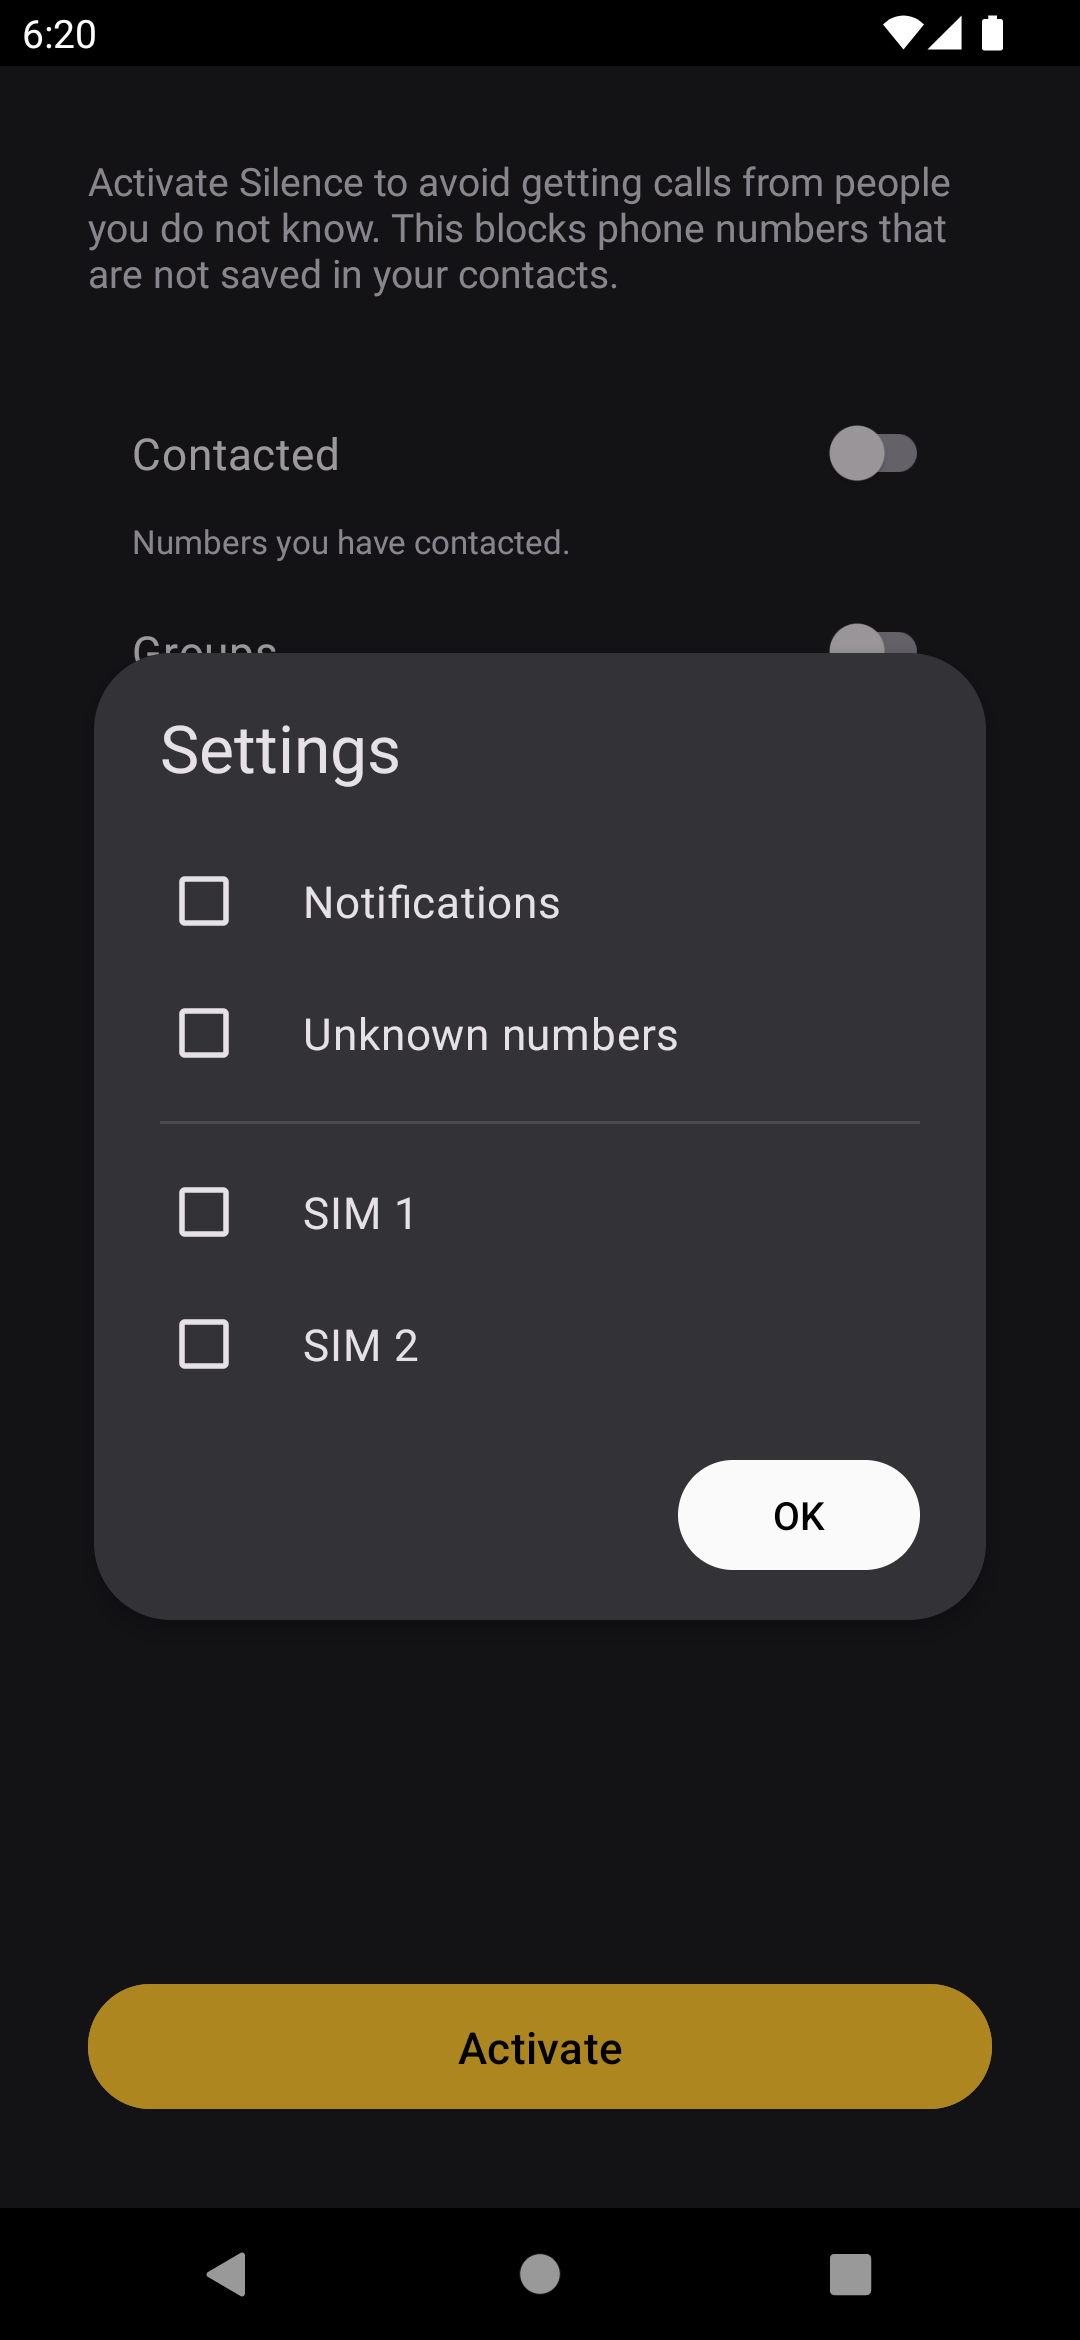
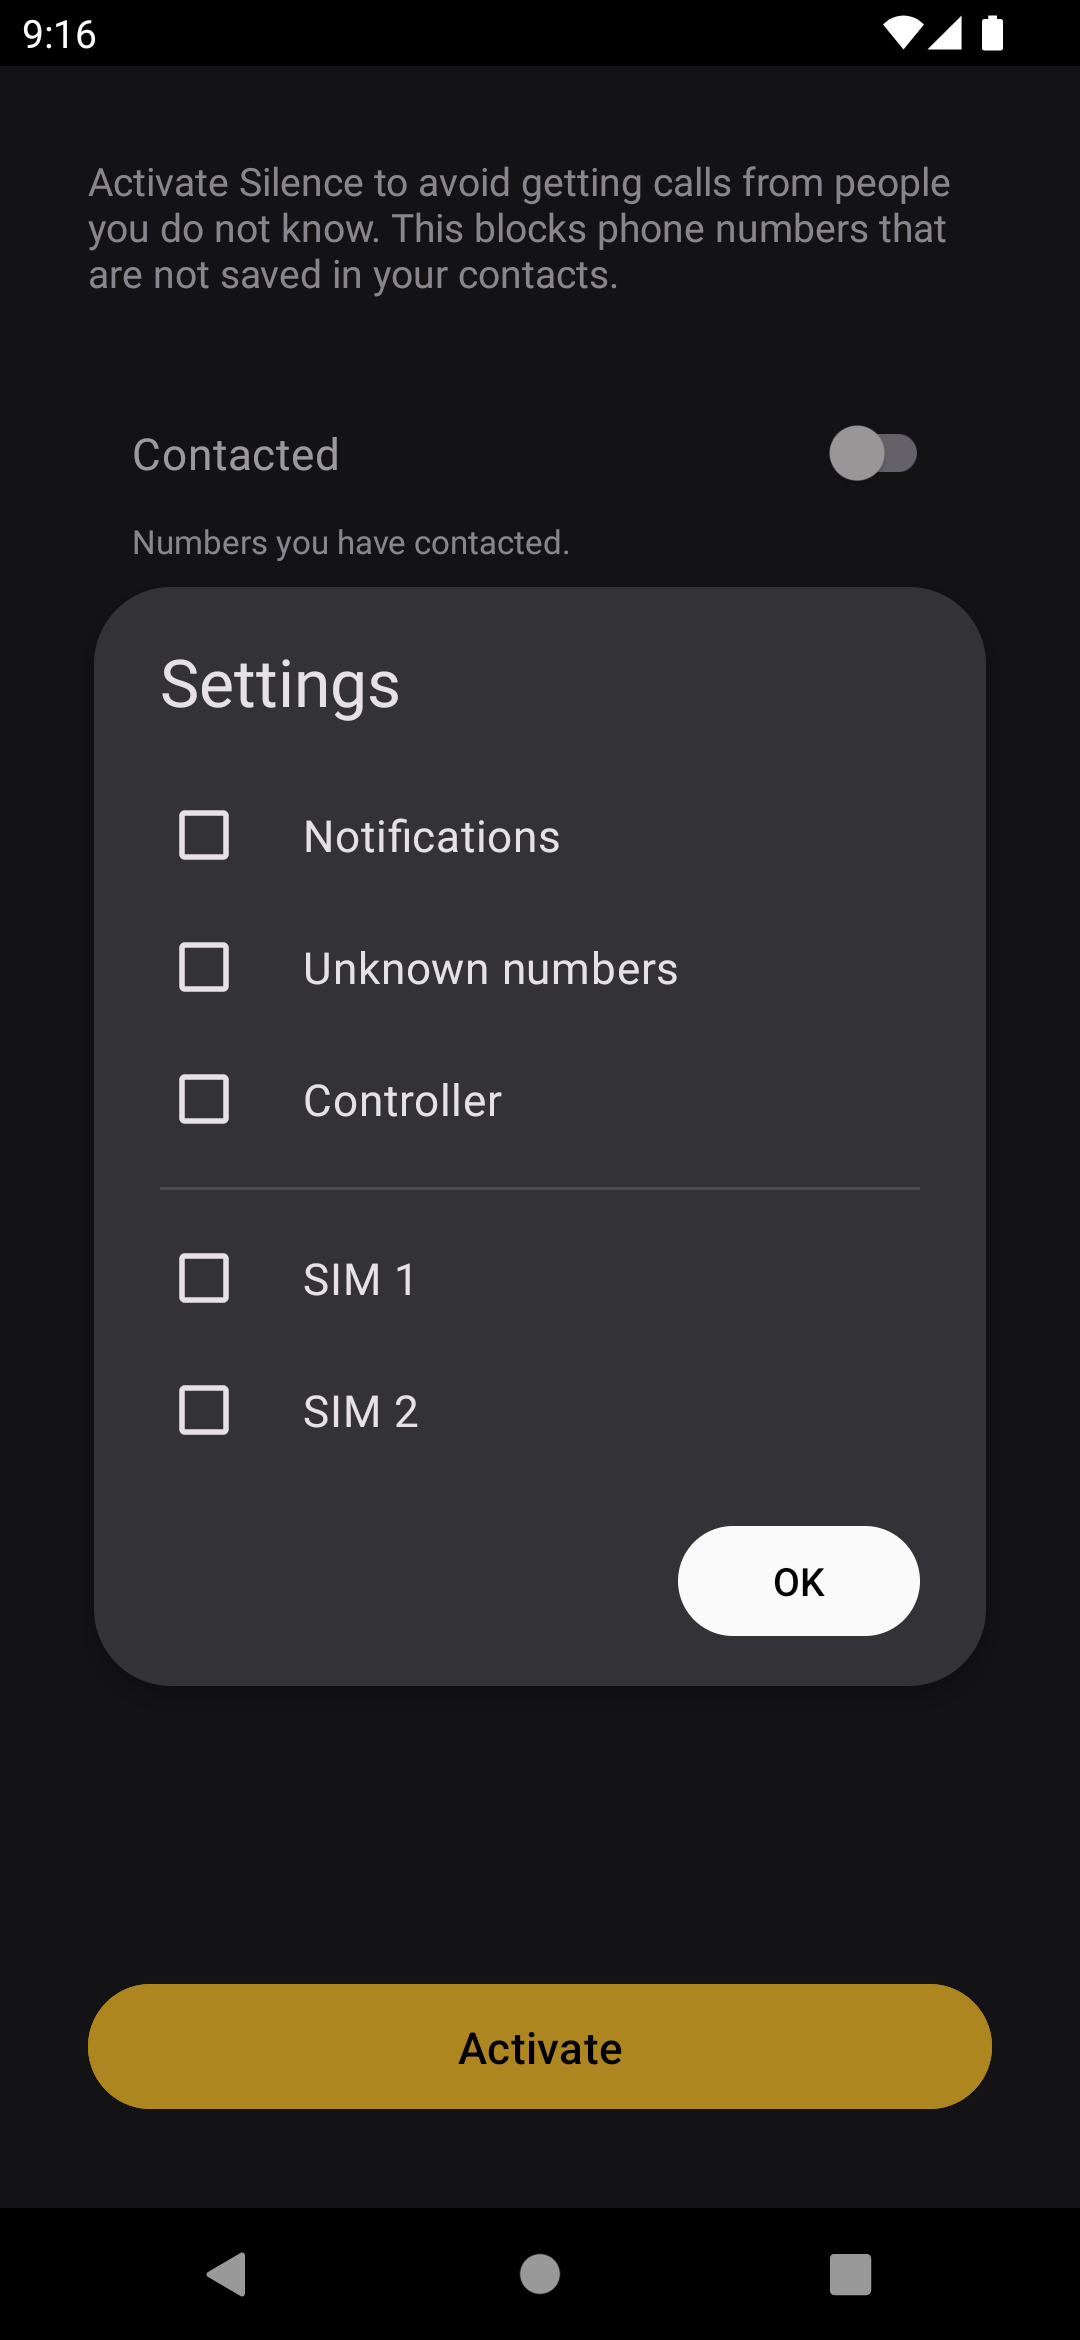
controller toggle

Changed region(s): [[0.0611, 0.2496, 0.9167, 0.6239], [0.0917, 0.6239, 0.9167, 0.7175], [0.0306, 0.0, 0.0917, 0.0312]]

diff --git a/app/src/main/java/me/lucky/silence/MainActivity.kt b/app/src/main/java/me/lucky/silence/MainActivity.kt
@@ -321,10 +321,12 @@ open class MainActivity : AppCompatActivity() {
         val isMultiSim = Utils.getModemCount(this) >= 2
         val notifications = view.findViewById<CheckBox>(R.id.notifications)
         val unknownNumbers = view.findViewById<CheckBox>(R.id.unknownNumbers)
+        val controller = view.findViewById<CheckBox>(R.id.controller)
         val sim1 = view.findViewById<CheckBox>(R.id.sim1)
         val sim2 = view.findViewById<CheckBox>(R.id.sim2)
         notifications.isChecked = isNotificationsChecked
         unknownNumbers.isChecked = isUnknownNumbersChecked
+        controller.isChecked = Utils.getComponentState(this, ControlReceiver::class.java)
         sim1.isChecked = sim.and(Sim.SIM_1.value) != 0
         sim2.isChecked = sim.and(Sim.SIM_2.value) != 0
         if (!hasApi31 || !isMultiSim) {
@@ -337,6 +339,9 @@ open class MainActivity : AppCompatActivity() {
         }
         unknownNumbers.setOnCheckedChangeListener { _, isChecked ->
             isUnknownNumbersChecked = isChecked
+        }
+        controller.setOnCheckedChangeListener { _, isChecked ->
+            Utils.setComponentState(this, ControlReceiver::class.java, isChecked)
         }
         sim1.setOnCheckedChangeListener { _, isChecked ->
             sim = when (isChecked) {

diff --git a/app/src/main/java/me/lucky/silence/Utils.kt b/app/src/main/java/me/lucky/silence/Utils.kt
@@ -11,12 +11,21 @@ import androidx.core.content.ContextCompat
 class Utils {
     companion object {
         fun setSmsReceiverState(ctx: Context, value: Boolean) {
+            setComponentState(ctx, SmsReceiver::class.java, value)
+        }
+
+        fun setComponentState(ctx: Context, cls: Class<*>, value: Boolean) {
             ctx.packageManager.setComponentEnabledSetting(
-                ComponentName(ctx, SmsReceiver::class.java),
+                ComponentName(ctx, cls),
                 if (value) PackageManager.COMPONENT_ENABLED_STATE_ENABLED else
                     PackageManager.COMPONENT_ENABLED_STATE_DISABLED,
                 PackageManager.DONT_KILL_APP,
             )
+        }
+
+        fun getComponentState(ctx: Context, cls: Class<*>): Boolean {
+            return ctx.packageManager.getComponentEnabledSetting(ComponentName(ctx, cls)) ==
+                    PackageManager.COMPONENT_ENABLED_STATE_ENABLED
         }
 
         fun hasCallScreeningRole(ctx: Context): Boolean {
